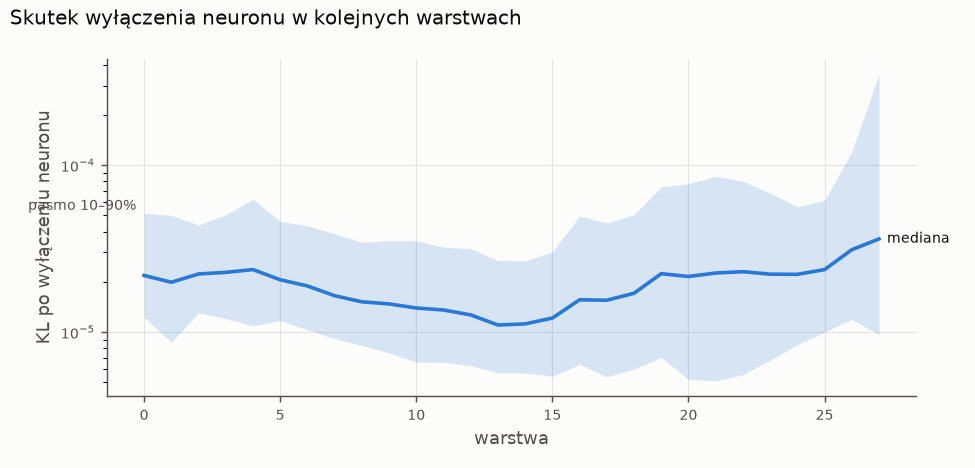
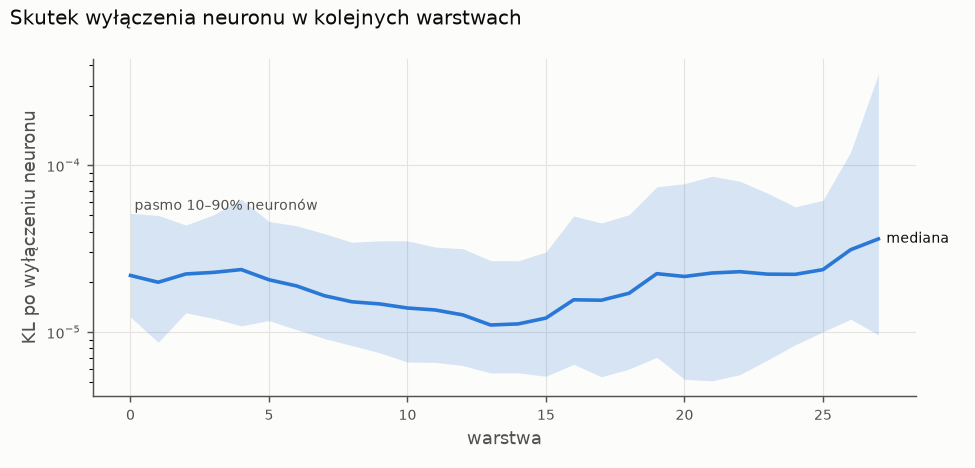
Phase 2 night finished: exact check of stage 2, stage 3 rerun, notes, briefing

diff --git a/AGENTS/memory/stan-projektu.md b/AGENTS/memory/stan-projektu.md
@@ -13,19 +13,19 @@ Krótko: co już jest, co teraz robimy, co dalej i jakie decyzje czekają. Agent
 - **Repo:** `github.com/Karolcha100/Qwen3-Family-research` (prywatne). Commit + push po każdej sesji (@phase-0:K17 = B); pozwolenie `Bash(git push)` w `.claude/settings.json` (@A5).
 - **Decyzje (phase-0):** K1 GitHub; K2 rozpisujemy tylko Phase 1, dalsze fazy autor; K3 instalacje z `sudo` jako zadania A (@A6–@A8); K4 **uv**; K5 **Python 3.14**; K6 **gotowe biblioteki, metody wybiera autor**; K10 agent pisze kod, **uruchamia na GPU tylko na „uruchom” autora**; K11 wyniki w `results/*.jsonl`; K12 pakiet `src/…` „spoko”, ale **struktura dopiero po wyborze metod**; K15 notatki do nauki przy każdej metodzie; K16 `phase-0` na pytania ogólne; K17 commit + push; K30 zapisujemy tylko wybrane checkpointy (poza repo). K32 kalibracja zawsze C4; K33 bez „uruchom” wolno instalować, budować i pobierać (po zatwierdzeniu planu), GPU tylko na „uruchom”; K34 katalog metod + propozycja (`AGENTS/phases/phase-0/katalog-metod.md`, L1); K35 szum ziaren mierzony raz na 0.6B. K7 = A (Base do perplexity/KL/lm-eval, instrukcyjny do evalplus/IFEval/klasyfikatorów); K8 = C (kalibracja: mieszanka C4 + kod), ale **autor ma główny pomysł, inny niż klasyczna kwantyzacja, jeszcze nieopisany**; K9 = A (okna 2048 bez nakładania); K14 = A (ruff, pyright, pytest).
 - **Phase 1 (środowisko): ✅ skończona 2026-10-29 20:47.** CUDA 13.4.92, llama.cpp z CUDA (`~/llama.cpp`, commit `eb4e244be`), uv + Python 3.14 + torch 2.15.0+cu134. Testy: PPL WikiText-2 (okna 2048) Base 12,67, instrukcyjny 20,97; ~28 tys. tok/s przebiegu. Raport: `AGENTS/phases/phase-1/srodowisko.md`. GGUF i dane: `~/qwen3-checkpoints/`.
-- **Główny pomysł autora (@T009):** A zaburzenia neuronów MLP (δ ∈ {−1, −0,5, 0,5, 1}) i pomiar skutku, B rodzaje neuronów na wykresach, C zmniejszanie warstw (wybór neuronów, rekonstrukcja lokalna, dotrenowanie). Decyzje: neuron = neuron MLP (K1 A), zaburzenie mnożące (K2 A), miara KL (+ generacja i klasyfikator dla top ~250, K3 A), pilot (K4 C), trening warstwy „przez następną” (K5 B), dane na dysk (K6), start z najmniejszych kwadratów (K7 A), dotrenowanie najpierw tylko zmniejszonych warstw, potem LoRA (K8 D). **Phase 2 = etapy 1–4** (K9): plan `AGENTS/phases/phase-pomysl/plan-phase-2.md` **zatwierdzony 2026-10-29 21:36**; kod etapu 1 (pakiet `src/qwen_compression/`, testy `tests/test_qwen_compression.py`, skrypt `scripts/phase2_stage1_pilot.py`) gotowy; K10–K15 rozstrzygnięte (tekst 75% C4 + 25% kod, pilot na warstwach 2/13/25, 1 mln tokenów na dysk, stopnie −5/−10/−20/−40%, pakiet `src/qwen_compression/`). **Cel autora: zmniejszać modele, zachowując sens** (uwaga 3).
+- **Główny pomysł autora (@T009):** A zaburzenia neuronów MLP (δ ∈ {−1, −0,5, 0,5, 1}) i pomiar skutku, B rodzaje neuronów na wykresach, C zmniejszanie warstw (wybór neuronów, rekonstrukcja lokalna, dotrenowanie). Decyzje: neuron = neuron MLP (K1 A), zaburzenie mnożące (K2 A), miara KL (+ generacja i klasyfikator dla top ~250, K3 A), pilot (K4 C), trening warstwy „przez następną” (K5 B), dane na dysk (K6), start z najmniejszych kwadratów (K7 A), dotrenowanie najpierw tylko zmniejszonych warstw, potem LoRA (K8 D). **Phase 2 = etapy 1–4** (K9): plan `AGENTS/phases/phase-pomysl/plan-phase-2.md` **zatwierdzony 2026-10-29 21:36**; **etapy 1–4 policzone w nocy 29/30.10** (raporty `AGENTS/phases/phase-pomysl/etap-1-pilot.md`, `etap-2-mapa.md`, `etap-3-rodzaje-neuronow.md`, `etap-4-jedna-warstwa.md`; wyniki `results/phase2/`): zaburzenia tylko w float32, $\mathrm{KL} \propto \delta^2$, mapa = przesiew Fishera na 131 tys. tokenów (zgodność z pomiarem dokładnym 0,96–0,99), ranking zależy od tekstu (tekst vs kod ≈ niezależne), krytyczne neurony głównie w warstwie 27 i 2, warstwa 13 −40% neuronów → PPL +0,5%; K10–K15 rozstrzygnięte (tekst 75% C4 + 25% kod, pilot na warstwach 2/13/25, 1 mln tokenów na dysk, stopnie −5/−10/−20/−40%, pakiet `src/qwen_compression/`). **Cel autora: zmniejszać modele, zachowując sens** (uwaga 3).
 - **Ewaluacja (@T002):** 1) perplexity + KL, 2) lm-eval (z IFEval) + evalplus, 3) **klasyfikatory, bez sędziów generatywnych**: 4 reguły (K28) + wieloatrybutowy model nagrody (K29 = B, np. ArmoRM; wybór modelu: K18 „do rozważenia”). 200 pytań po angielsku (K21, K23), mieszanka źródeł (K22), sampling 3 odpowiedzi (K24), **tryb myślenia włączony** (K25), ocena bezwzględna + parami z BF16 (K20), ręczna kalibracja ~50 odpowiedzi w HTML (K26). Lista metryk: `AGENTS/phases/phase-0/plan-metryki-oceny.md` (do opiniowania). K37 limit 8192 tokenów; K38 model nagrody widzi tylko odpowiedź końcową; K39 bez pytań IFEval w naszych 200 (@T005); K40 metryka zgodności z wzorcem. K36: porównanie z BF16 + percentyle + ranking Elo (sekcja D planu metryk). K41 = C: 80 MT-Bench + 60 Arena-Hard + 40 AlpacaEval + 20 własnych; K42 = B: obie tury MT-Bench (druga oceniana osobno).
 - **Kod:** Python 3.14, z typami, po angielsku, bez komentarzy, pełne nazwy zmiennych.
 
 ## Następny krok
 
-1. Autor: „uruchom etap 1” (pilot, ~3 h GPU).
-2. Agent: pilot → analiza → raport `etap-1-pilot.md` (@L13; szczegóły w `AGENTS/memory/w-toku.md`).
+1. Autor: odpowiedzi na K16–K24 (`AGENTS/phases/phase-pomysl/agents-issues-3.md`), najważniejsze K17 (mapa z przesiewu) i K21 (warstwy w etapie 4).
+2. Agent: według odpowiedzi (np. inne warstwy w etapie 4, dłuższy trening K23, zmiana nazwy folderu K19, poprawka GUI K22/@L14).
 
 ## Otwarte decyzje autora
 
-- brak otwartych pytań.
-- Plan do opinii: `AGENTS/phases/phase-0/katalog-metod.md` (plan metryk zatwierdzony 21:37).
+- K16–K24 w `AGENTS/phases/phase-pomysl/agents-issues-3.md`.
+- Plan do opinii: `AGENTS/phases/phase-0/katalog-metod.md`.
 
 *Zmiana: 2026-10-29 15:03 — decyzje K3–K17, zadania A5–A8, raporty A2–A4 — Claude Opus 5.5*
 *Zmiana: 2026-10-29 15:45 — decyzje K11–K31, ocena klasyfikatorami — Claude Opus 5.5*
@@ -39,3 +39,4 @@ Krótko: co już jest, co teraz robimy, co dalej i jakie decyzje czekają. Agent
 *Zmiana: 2026-10-29 21:13 — decyzje K1–K9 pomysłu, plan Phase 2 — Claude Opus 5.5*
 *Zmiana: 2026-10-29 21:34 — K3, K10–K15 rozstrzygnięte — Claude Opus 5.5*
 *Zmiana: 2026-10-29 21:49 — plan Phase 2 zatwierdzony, kod etapu 1 gotowy — Claude Opus 5.5*
+*Zmiana: 2026-10-30 04:32 — Phase 2 etapy 1–4 policzone, pytania K16–K24 — Claude Opus 5.5*

diff --git a/AGENTS/memory/w-toku.md b/AGENTS/memory/w-toku.md
@@ -8,20 +8,16 @@ Co agent robi **teraz**, w którym kroku jest i co dalej. Aktualizowany w trakci
 
 ## Teraz
 
-**@L13: Phase 2 — autor (22:07): „uruchom wszystkie etapy, idę spać”.** Plan nocy: @T010 (wpisy 22:09, 22:10, 02:06).
-- **Etap 1 gotowy** (01:37): `results/phase2/stage1/`, raport `AGENTS/phases/phase-pomysl/etap-1-pilot.md`. 4096 tokenów → ranking 0,51 (za mało); $\mathrm{KL} \propto \delta^2$.
-- **Etap 2:** mapa przesiewu gotowa (64 sekw. × 64 próbki, 21 min): `results/phase2/stage2/fisher-map.pt`, `fisher-summary.json`, raport `etap-2-mapa.md` (sekcja 6 = pomiar dokładny, do dopisania jako nowy wpis).
-- **Etap 3 policzony wstępnie** (`results/phase2/stage3/`), bez raportu. Po pomiarze dokładnym etapu 2 uruchomić ponownie (`uv run --no-sync python scripts/phase2_stage3_neuron_kinds.py`; `source-statistics.pt` jest już gotowe) → raport `etap-3-rodzaje-neuronow.md`.
-- **Kolejka GPU** `results/phase2/night-chain.sh` (PID 125608, start 02:03): etap 4 `--layer 13 --measurement-sequences 0..7` → potem `phase2_stage2_full_map.py --mode screened` (δ ±1, top 10% + 5% losowych, pomija warstwy 2/13/25). Wyjścia: `results/phase2/night-chain.log`, `stage4/stdout.log`, `stage2/stdout.log`. Oba skrypty wznawiają się same.
-- Pytania K16–K22: `AGENTS/phases/phase-pomysl/agents-issues-3.md` (K19 zmiana nazwy folderu dopiero gdy nic nie liczy).
-- Dalej: raport etapu 4 → dopisek w etap-2 (sekcja 6) → etap 3 ponownie + raport → briefing, commit, push.
+- Nic się nie liczy (GPU wolne od 04:30). **@L13 zrobione** w nocy 29/30.10: raporty `AGENTS/phases/phase-pomysl/etap-1-pilot.md` … `etap-4-jedna-warstwa.md`, wyniki `results/phase2/`, nocny przebieg @T010 (wpisy 22:09, 22:10, 02:06).
+- Dane poza repo: `~/qwen3-checkpoints/phase2/` (`measurement-set.pt`, `training-set.pt`, `layer-13-pairs/` 4 GB).
+- Powtórka etapu 4 dla innej warstwy: `uv run --no-sync python scripts/phase2_stage4_one_layer.py --layer N --measurement-sequences 0 1 2 3 4 5 6 7` (ℓ ≤ 25), wykres: `scripts/phase2_stage4_analysis.py --layer N`.
 
 ## Na co czekam (co odblokuje pracę)
 
 | Czekam na | Odblokuje |
 |---|---|
-| **„uruchom etap 1”** od autora | @L13: pilot (~3 h GPU) |
-| opinia o `AGENTS/phases/phase-0/plan-metryki-oceny.md` | @L7 zestaw pytań (dopiero Phase 3) |
+| K16–K24 (`AGENTS/phases/phase-pomysl/agents-issues-3.md`) | dalsze kroki Phase 2 (K21 warstwy, K23 trening, K19 nazwa folderu, K22 → @L14 GUI) |
+| opinia o `AGENTS/phases/phase-0/katalog-metod.md` | wybór metod klasycznych |
 
 ## Odłożone pytania
 
@@ -29,4 +25,4 @@ Co agent robi **teraz**, w którym kroku jest i co dalej. Aktualizowany w trakci
 
 ## Ostatnia sesja
 
-2026-10-29 21:49: plan Phase 2 zatwierdzony (21:36), plan metryk zatwierdzony (21:37). Napisany kod etapu 1 + testy + zbiór pomiarowy. Czekam na „uruchom etap 1”.
+2026-10-30 04:32: noc z etapami 1–4 Phase 2 (prompt autora 22:07 „uruchom wszystkie etapy”). Wszystko policzone, raporty i pytania K16–K24 gotowe.

diff --git a/AGENTS/talk/briefings/2026-10-30-0432.md b/AGENTS/talk/briefings/2026-10-30-0432.md
@@ -1,0 +1,29 @@
+# Briefing 2026-10-30 04:32 — noc z Phase 2: etapy 1–4 policzone
+
+## Zmiany
+
+- **CRE** `AGENTS/phases/phase-pomysl/etap-1-pilot.md` — pilot: float32 zamiast bf16, skutek ∝ δ², 4096 tokenów za mało (zgodność 0,51)
+- **CRE** `AGENTS/phases/phase-pomysl/etap-2-mapa.md` — mapa 86 016 neuronów (przesiew na 131 tys. tokenów), kontrola dokładna 15% neuronów: zgodność 0,96–0,99; tekst i kod mają inne ważne neurony
+- **CRE** `AGENTS/phases/phase-pomysl/etap-3-rodzaje-neuronow.md` — rodzaje neuronów (5 martwych, 422 zbędne, 75 krytycznych, w tym 53 w warstwie 27)
+- **CRE** `AGENTS/phases/phase-pomysl/etap-4-jedna-warstwa.md` — warstwa 13: −40% neuronów MLP → perpleksja 12,660 → 12,725; wybór przesiewem lepszy niż po średniej aktywacji
+- **CRE** `AGENTS/phases/phase-pomysl/agents-issues-3.md` — pytania K16–K24
+- **CRE** `AGENTS/phases/phase-pomysl/figures/` — 6 wykresów
+- **CRE** `scripts/phase2_stage2_fisher_map.py`, `scripts/phase2_stage2_fisher_analysis.py`, `scripts/phase2_stage4_analysis.py`
+- **MOD** `src/qwen_compression/importance.py` — przesiew bez grafu przez logity (w float32 brakowało pamięci GPU)
+- **MOD** `scripts/phase2_stage2_full_map.py`, `scripts/phase2_stage3_neuron_kinds.py`, `scripts/phase2_stage4_one_layer.py` — oparte na pełnej mapie przesiewu, δ = ±1
+- **MOD** `AGENTS/talk/threads/T010-noc-etapy-phase-2.md` — wpisy 02:06 i 04:32; naprawiona tabela z wpisu 22:10 (powłoka zjadła znaki `$` we wzorach)
+- **MOD** `AGENTS/todo/llm/TODO-dla-LLM.md` (@L13 zrobione, @L14 czeka na K22), `AGENTS/todo/llm/raport-TODO-LLM.md`
+- **MOD** `AGENTS/memory/` (w-toku, stan-projektu, pułapki 19–20)
+- **CRE** `results/phase2/` — logi i podsumowania JSON (pliki .pt poza gitem)
+- **CRE** `AGENTS/talk/briefings/2026-10-30-0432.md` — ten briefing
+
+## Do odpowiedzi
+
+- **Pytania bez decyzji → phase-pomysl → K16–K24** (`agents-issues-3.md`). Najważniejsze:
+  - **K17:** czy akceptujesz mapę z przesiewu. To odstępstwo od nocnej reguły: 64 próbki zamiast 16 i 131 tys. tokenów zamiast 4096.
+  - **K21:** czy warstwa 13 w etapie 4 jest w porządku. Rekomenduję dołożyć dla porównania wrażliwą warstwę 2.
+  - **Pozostałe:** K16 (tylko δ = ±1), K18 (tekst a kod), K19 (nazwa folderu `phase-pomysl` → `phase-2`), K20 (klasyfikator), K22 (jak wpis trafił do złego planu, @L14), K23 (dłuższy trening), K24 (progi rodzajów).
+- **Wątki → T010** (noc): podsumowanie nocy; możesz zamknąć, jeśli nie masz pytań.
+- **Raporty:** `etap-1-pilot.md` … `etap-4-jedna-warstwa.md` w `AGENTS/phases/phase-pomysl/`.
+
+*2026-10-30 04:32 — Claude Opus 5.5*

diff --git a/AGENTS/todo/llm/TODO-dla-LLM.md b/AGENTS/todo/llm/TODO-dla-LLM.md
@@ -18,5 +18,5 @@ Zasady (numeracja `L…`, statusy, raporty): `AGENTS/todo/llm/INSTRUKCJA.md`. Ko
 - [?] **L10. Notatki do nauki dla każdej wybranej metody** (@phase-0:K15 = A: idea, wzór w TeX z opisem słownym, co mierzymy, co wyszło). Czeka na: wybór metod. *(dodane 2026-10-29 16:54)*
 - [?] **L11. Lokalna strona HTML do ręcznej oceny ~50 odpowiedzi** (@phase-0:K26 = A). Czeka na: L7 i pierwsze wygenerowane odpowiedzi. *(dodane 2026-10-29 16:54)*
 - [x] **L12. Plan etapów głównego pomysłu** (@T009; propozycja etapów w `AGENTS/phases/phase-pomysl/raport-2-opinia.md`). Czeka na: odpowiedzi w `AGENTS/phases/phase-pomysl/agents-issues-1.md` (K1–K9, w szczególności K9). *(dodane 2026-10-29 20:48)* *(zrobione: 2026-10-29 21:13 — `AGENTS/phases/phase-pomysl/plan-phase-2.md`, etapy 1–4; raport: raport-TODO-LLM.md)*
-- [~] **L13. Phase 2 — etapy 1–4** według `AGENTS/phases/phase-pomysl/plan-phase-2.md`. Czeka na: zatwierdzenie planu i „uruchom” dla każdego etapu na GPU. Kod (bez GPU) mogę pisać po zatwierdzeniu planu. *(dodane 2026-10-29 21:13)* *(w toku: Claude Opus 5.5, 2026-10-29 21:39 — kod etapu 1 i zbiór pomiarowy gotowe, czeka na „uruchom etap 1”)*
-- [ ] **L14. Sprawdzić, czy GUI po „✅ Zatwierdzam plan” zostawia zaznaczony poprzedni plan** (wpis autora z 21:38 trafił do planu Phase 2 zamiast do planu metryk zatwierdzonego minutę wcześniej; @T010). Jeśli to błąd: poprawka w `agents_board/static/index.html` + test. *(dodane 2026-10-29 22:14)*
+- [x] **L13. Phase 2 — etapy 1–4** według `AGENTS/phases/phase-pomysl/plan-phase-2.md`. Czeka na: zatwierdzenie planu i „uruchom” dla każdego etapu na GPU. Kod (bez GPU) mogę pisać po zatwierdzeniu planu. *(dodane 2026-10-29 21:13)* *(w toku: Claude Opus 5.5, 2026-10-29 21:39 — kod etapu 1 i zbiór pomiarowy gotowe, czeka na „uruchom etap 1”)* *(zrobione: Claude Opus 5.5, 2026-10-30 04:32 — etapy 1–4 policzone, raporty `etap-1…4` w `AGENTS/phases/phase-pomysl/`; ocena klasyfikatorem w etapie 3 odłożona → @phase-pomysl:K20; pytania K16–K24)*
+- [ ] **L14. Sprawdzić, czy GUI po „✅ Zatwierdzam plan” zostawia zaznaczony poprzedni plan** (wpis autora z 21:38 trafił do planu Phase 2 zamiast do planu metryk zatwierdzonego minutę wcześniej; @T010). Jeśli to błąd: poprawka w `agents_board/static/index.html` + test. *(dodane 2026-10-29 22:14)* *(czeka na odpowiedź autora: @phase-pomysl:K22, 2026-10-30 04:32)*

diff --git a/AGENTS/phases/phase-pomysl/etap-2-mapa.md b/AGENTS/phases/phase-pomysl/etap-2-mapa.md
@@ -92,3 +92,36 @@ Liczy się po etapie 4 (kolejka GPU), ~2 h. Wynik dopiszę w tym miejscu jako no
 - kod: `scripts/phase2_stage2_fisher_map.py`, `scripts/phase2_stage2_fisher_analysis.py`, `scripts/phase2_stage2_full_map.py` (pomiar dokładny), `src/qwen_compression/importance.py`.
 
 *2026-10-30 02:05 — Claude Opus 5.5*
+
+---
+
+## 8. Dopisek: pomiar dokładny 10% najważniejszych + 5% losowych (sekcja 6)
+
+Policzony 02:29–04:30 (2 h) w float32 dla 25 warstw (bez 2, 13 i 25, które pilot policzył w całości). W każdej warstwie 307 neuronów najważniejszych według mapy i 153 losowe z reszty, $\delta = \pm 1$ (@K16), na tych samych 4096 tokenach co pilot.
+
+**Przesiew (z tych samych 4096 tokenów, 64 próbki) vs pomiar dokładny:**
+
+| | Spearman | średnio |
+|---|---|---|
+| wszystkie zmierzone neurony, 25 warstw | 0,96–0,99 | 0,978 |
+| tylko 10% najważniejszych | 0,90–0,98 | 0,963 |
+| tylko 5% losowych | 0,95–0,99 | 0,971 |
+
+Mediana stosunku przesiew / dokładnie wynosi 0,95–1,01 w każdej warstwie. Pojedyncze neurony są przeszacowane do 2–5×; to te same, co w pilocie, czyli o bardzo dużym skutku, gdzie przybliżenie kwadratowe słabnie. **Przesiew jest wiarygodny w całym modelu, nie tylko w 3 warstwach pilota.**
+
+**Neurony krytyczne potwierdzone dokładnie.** Wyłączenie jednego neuronu ostatniej warstwy daje:
+
+| Neuron | KL dokładnie | KL przesiew (te same tokeny) |
+|---|---|---|
+| 27 / #39 | 0,043 | 0,040 |
+| 27 / #386 | 0,034 | 0,033 |
+| 27 / #222 | 0,032 | 0,043 |
+| 27 / #81 | 0,028 | 0,034 |
+| 27 / #0 | 0,026 | 0,021 |
+| 27 / #191 | 0,016 | 0,017 |
+
+To ~2000× więcej niż mediana ($1{,}8 \cdot 10^{-5}$). Dla porównania: wycięcie 40% neuronów warstwy 13 z douczeniem dało KL 0,006 (`etap-4-jedna-warstwa.md`).
+
+Wyniki: `results/phase2/stage2/layer-XX.pt` (neurony, KL i zmiana straty dla $\delta = \pm 1$, osobno dla 2 sekwencji).
+
+*2026-10-30 04:30 — Claude Opus 5.5*

diff --git a/AGENTS/talk/threads/T010-noc-etapy-phase-2.md b/AGENTS/talk/threads/T010-noc-etapy-phase-2.md
@@ -116,3 +116,26 @@ Rano: przeczytaj `etap-1-pilot.md` i `etap-2-mapa.md` w `AGENTS/phases/phase-pom
 ---
 ---
 ---
+
+## Co masz zrobić
+
+Odpowiedz na **K16–K24** w `AGENTS/phases/phase-pomysl/agents-issues-3.md` (najważniejsze K17 i K21). Jeśli nie masz pytań do nocy, ten wątek możesz zamknąć.
+
+---
+
+**Noc zakończona (04:30), wszystkie cztery etapy policzone.** Raporty w `AGENTS/phases/phase-pomysl/`:
+
+| Etap | Raport | Najważniejszy wynik |
+|---|---|---|
+| 1 | `etap-1-pilot.md` | 4096 tokenów to za mało (zgodność rankingów 0,51); skutek rośnie jak kwadrat δ |
+| 2 | `etap-2-mapa.md` | mapa 86 016 neuronów z przesiewu na 131 tys. tokenów; z pomiarem dokładnym zgadza się w 0,96–0,99 we wszystkich warstwach |
+| 3 | `etap-3-rodzaje-neuronow.md` | prawie brak martwych i zbędnych neuronów; krytyczne głównie w ostatniej warstwie 27 i w warstwie 2; tekst i kod mają inne ważne neurony |
+| 4 | `etap-4-jedna-warstwa.md` | warstwa 13: −40% neuronów MLP → perpleksja 12,660 → 12,725; wybór przesiewem lepszy niż po średniej aktywacji |
+
+Odłożona została tylko ocena klasyfikatorem (punkt 3 pierwszego wpisu, **K20**). Nic się nie wysypało poza krokiem przesiewu (brak pamięci GPU, naprawione o 01:38).
+
+*2026-10-30 04:32 — Claude Opus 5.5*
+
+---
+---
+---

diff --git a/AGENTS/todo/llm/raport-TODO-LLM.md b/AGENTS/todo/llm/raport-TODO-LLM.md
@@ -77,3 +77,16 @@ Jeden wpis na zadanie: co zrobiono, gdzie są pliki, jak sprawdzono, co zostało
 *2026-10-29 21:13 — Claude Opus 5.5*
 
 ---
+
+---
+
+### [L13] Phase 2 — etapy 1–4 (noc 29/30.10)
+
+- etap 1 (pilot, float32, warstwy 2/13/25, 4096 tokenów): `AGENTS/phases/phase-pomysl/etap-1-pilot.md`; bf16 = szum, $\mathrm{KL} \propto \delta^2$, 4096 tokenów daje ranking o zgodności tylko 0,51;
+- etap 2 (mapa 86 016 neuronów): przesiew Fishera na 131 tys. tokenów (64 × 64 próbki, 21 min) + pomiar dokładny 15% neuronów w 25 warstwach (2 h); zgodność przesiewu z pomiarem dokładnym 0,96–0,99: `etap-2-mapa.md`;
+- etap 3 (rodzaje neuronów, bez klasyfikatora): `etap-3-rodzaje-neuronow.md`;
+- etap 4 (warstwa 13, −5…−40%): `etap-4-jedna-warstwa.md`; −40% neuronów → perpleksja 12,660 → 12,725, wybór przesiewem lepszy niż po średniej aktywacji;
+- sprawdzone: 34 testy, ruff, pyright; liczby w raportach sprawdzone z plikami `results/phase2/`;
+- zostało: ocena klasyfikatorem (@phase-pomysl:K20), decyzje K16–K24 (`agents-issues-3.md`).
+
+*2026-10-30 04:32 — Claude Opus 5.5*

diff --git a/AGENTS/phases/phase-pomysl/etap-3-rodzaje-neuronow.md b/AGENTS/phases/phase-pomysl/etap-3-rodzaje-neuronow.md
@@ -63,3 +63,19 @@ Mediana globalna $\mathrm{KL}_j$ = $1{,}8 \cdot 10^{-5}$ nat na token.
 - kod: `scripts/phase2_stage3_neuron_kinds.py` (progi jako argumenty).
 
 *2026-10-30 02:31 — Claude Opus 5.5*
+
+---
+
+## 5. Dopisek: asymetria po pomiarze dokładnym etapu 2
+
+Etap 3 przeliczony 04:30 z pomiarem dokładnym etapu 2. Zmienia się tylko liczba **asymetrycznych**: 571 (zamiast 143), z 20 716 zmierzonych dokładnie (24% wszystkich neuronów). Pozostałe rodzaje bez zmian.
+
+| Warstwy | asymetryczne |
+|---|---|
+| 0–6 | 18–63 na warstwę (najwięcej warstwa 2: 63) |
+| 7–16 | 1–12 na warstwę |
+| 17–27 | 14–74 na warstwę (najwięcej warstwa 25: 74, warstwa 27: 54) |
+
+Asymetria dotyczy głównie **ważnych** neuronów: ma ją 5,1% neuronów z „top 10%” i tylko 0,9% losowych. Zwykle wyłączenie szkodzi bardziej niż podwojenie: tak jest u 452 z 571 asymetrycznych (w warstwie 27 u 39 z 54). Liczby na warstwach 2, 13 i 25 obejmują wszystkie neurony, a na pozostałych tylko zmierzone 15%, więc nie są wprost porównywalne.
+
+*2026-10-30 04:30 — Claude Opus 5.5*
